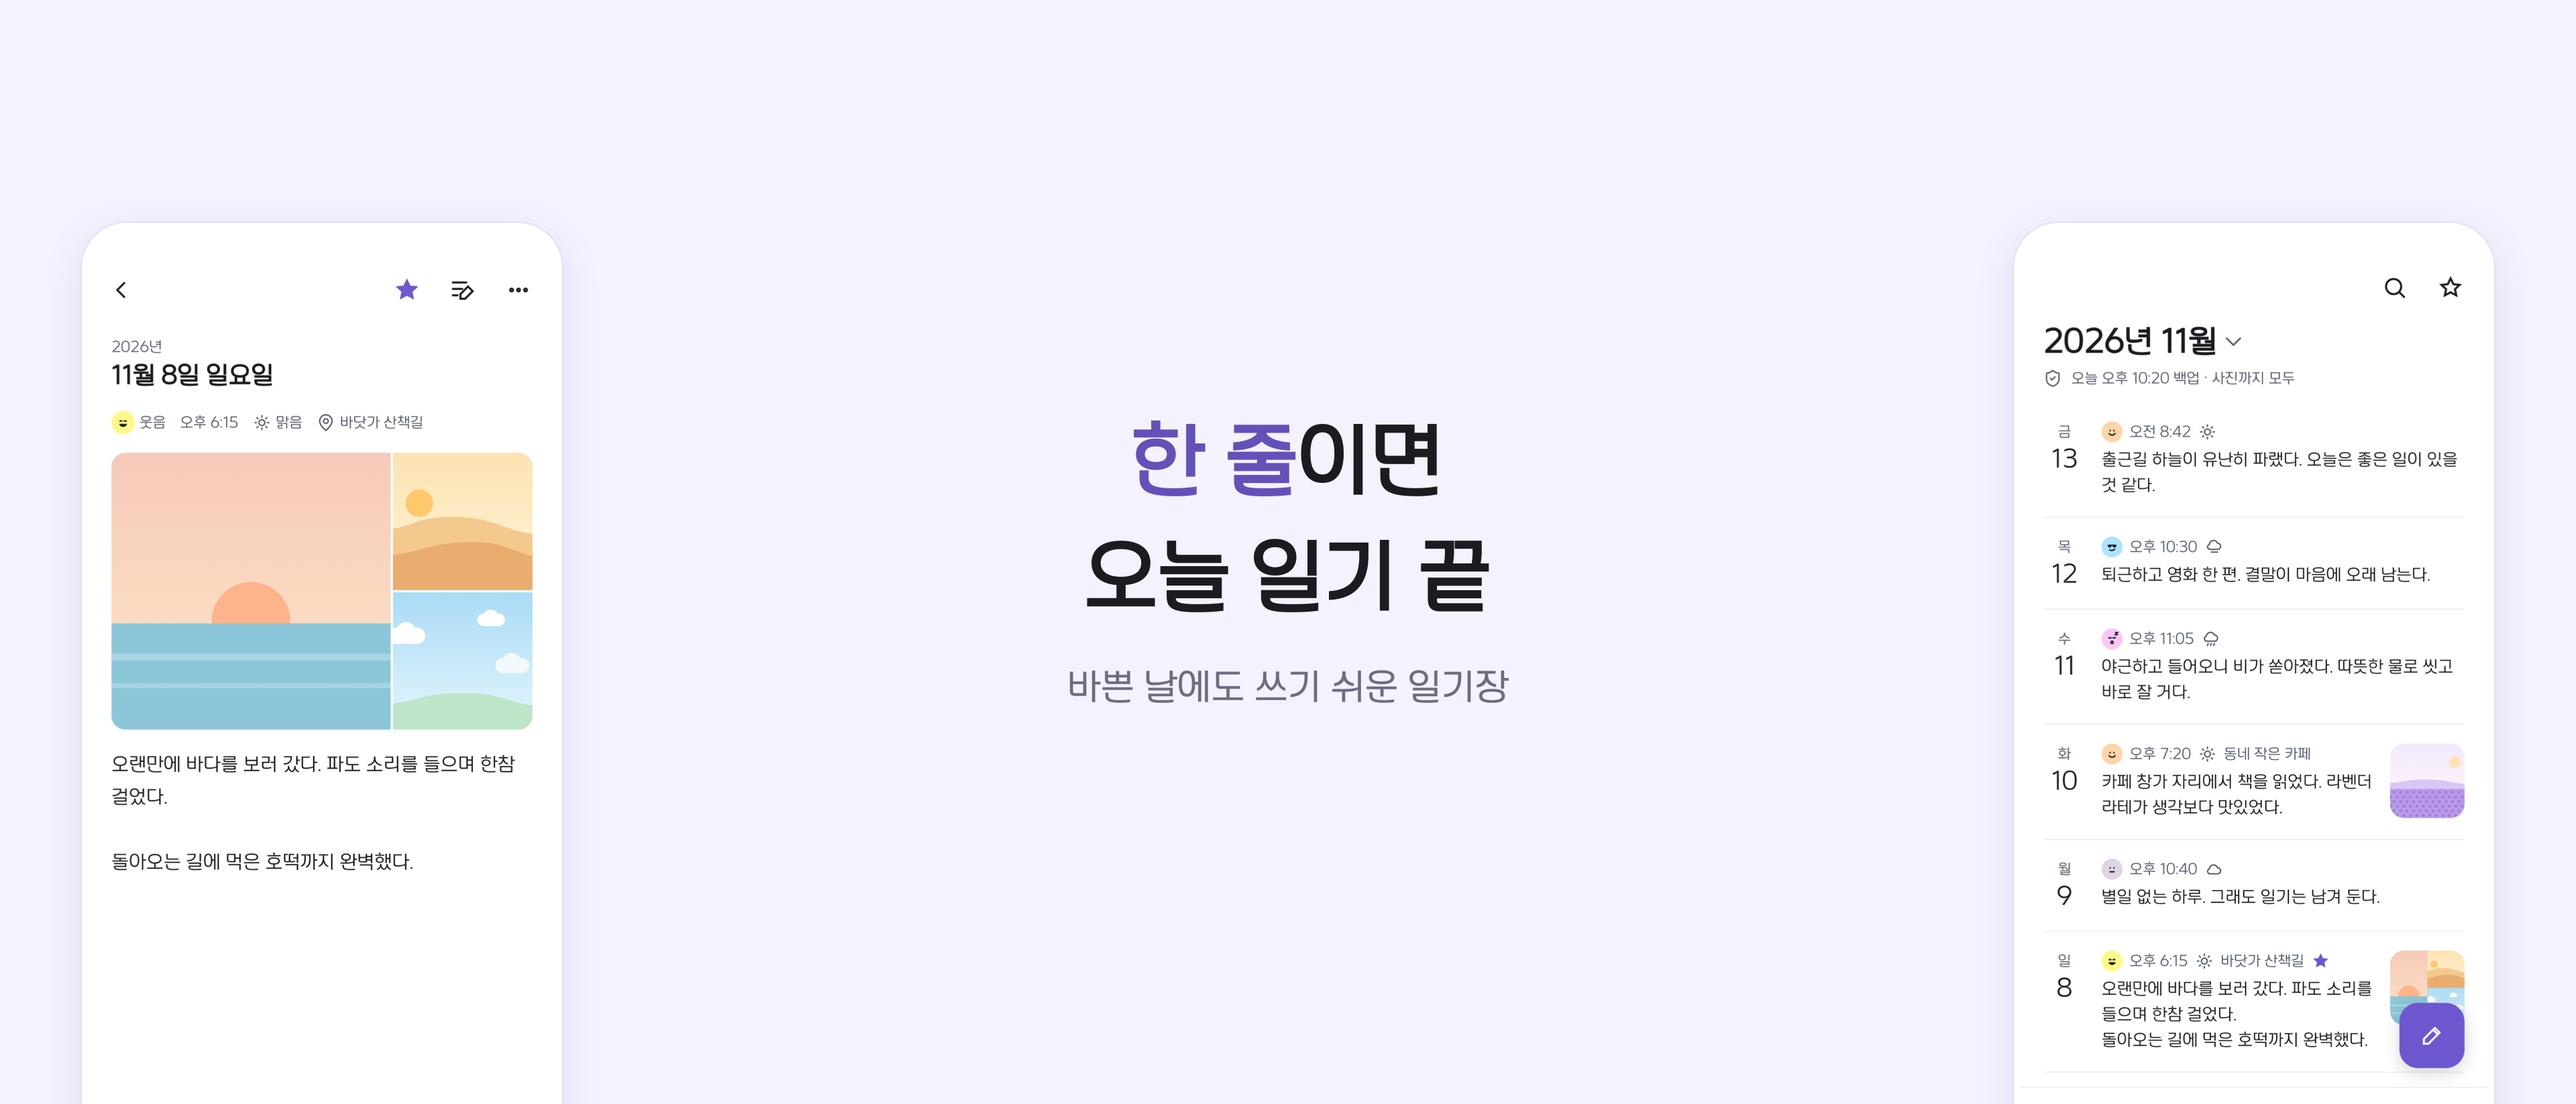
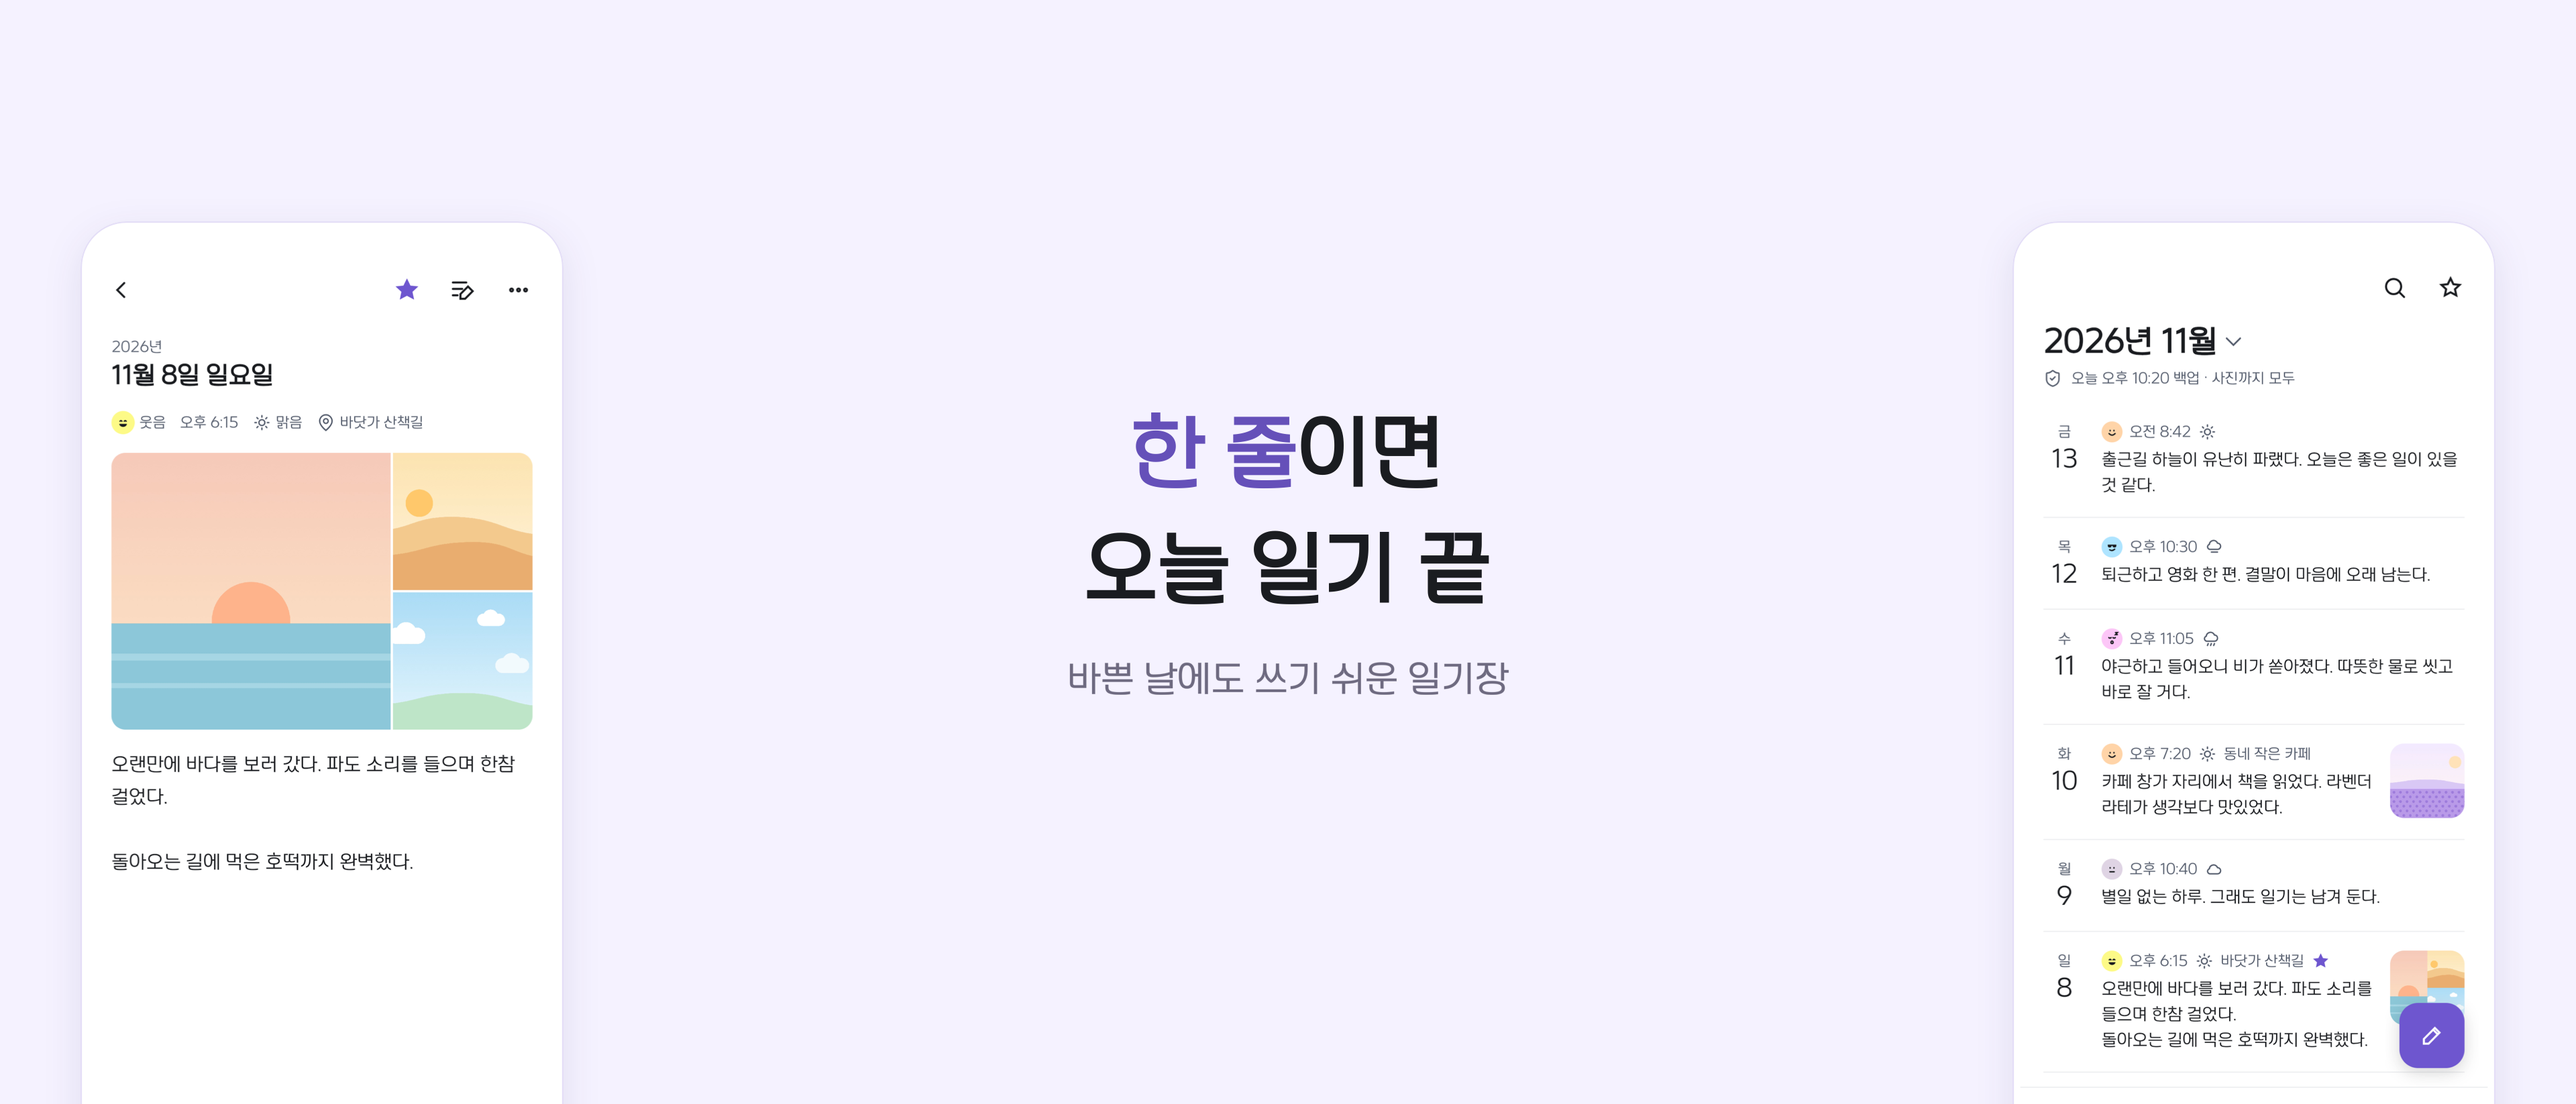
fix(design): 스토어 가로 그림의 글과 화면을 가운데에 맞추기
검색 결과 그림은 화면이 위로 50px 치우치고 좌우 여백이 904와 840으로
달랐다. 글과 화면 자리를 숫자로 박아 두어 언어마다 글 폭이 달라지면
어긋났다. 글 폭을 재서 한 묶음으로 가로 가운데에 두고, 화면과 글을
세로 가운데에 맞췄다. Play 그래픽 이미지와 App Store 헤더도 같은
방식으로 다시 만들었다.

Changed region(s): [[0.4062, 0.3718, 0.5938, 0.5577], [0.4062, 0.5887, 0.5938, 0.6507]]

diff --git a/scripts/store/make_banner.swift b/scripts/store/make_banner.swift
@@ -23,6 +23,7 @@ let bg = color(0xF5F2FF), ink = color(0x1A1C20), sub = color(0x6E6A80), line = c
 let accent = color(0x6550B9)
 let accentWord = ["ko": "한 줄", "en": "One line", "ja": "1行"]
 let statusCut: CGFloat = 162
+let lineHeightMultiple: CGFloat = 1.16
 
 let copy: [String: (String, String)] = [
     "ko": ("한 줄이면\n오늘 일기 끝", "바쁜 날에도 쓰기 쉬운 일기장"),
@@ -33,25 +34,40 @@ let copy: [String: (String, String)] = [
 func R(_ x: CGFloat, _ top: CGFloat, _ w: CGFloat, _ h: CGFloat) -> NSRect { NSRect(x: x, y: H - top - h, width: w, height: h) }
 
 func attributed(_ s: String, _ px: CGFloat, _ c: NSColor, bold: Bool, align: NSTextAlignment) -> NSAttributedString {
-    let style = NSMutableParagraphStyle(); style.alignment = align; style.lineHeightMultiple = 1.16
+    let style = NSMutableParagraphStyle(); style.alignment = align; style.lineHeightMultiple = lineHeightMultiple
     let japanese = lang == "ja"
     let f = japanese ? NSFont(name: bold ? "HiraginoSans-W6" : "HiraginoSans-W3", size: px * 0.92)! : NSFont(name: "ChangwonDangamRound-Regular", size: px)!
     let stroke: CGFloat = japanese ? 0 : (bold ? (lang == "en" ? -5.0 : -3.4) : -0.6)
     return NSAttributedString(string: s, attributes: [.font: f, .foregroundColor: c, .strokeColor: c, .strokeWidth: stroke, .paragraphStyle: style])
 }
 
-// 제목과 설명을 한 덩어리로 x, 가운데 y에 그림
-func block(x: CGFloat, centerY: CGFloat, width: CGFloat, title: CGFloat, align: NSTextAlignment) {
+func texts(_ title: CGFloat, _ align: NSTextAlignment) -> (NSAttributedString, NSAttributedString) {
     let t = NSMutableAttributedString(attributedString: attributed(copy[lang]!.0, title, ink, bold: true, align: align))
     if let r = copy[lang]!.0.range(of: accentWord[lang]!) {
         let range = NSRange(r, in: copy[lang]!.0)
         t.addAttributes([.foregroundColor: accent, .strokeColor: accent], range: range)
     }
-    let s = attributed(copy[lang]!.1, title * 0.46, sub, bold: false, align: align)
+    return (t, attributed(copy[lang]!.1, title * 0.46, sub, bold: false, align: align))
+}
+
+// 글 덩어리의 실제 폭. 언어마다 달라 글과 화면을 한 묶음으로 가운데 둘 때 씀
+func blockWidth(title: CGFloat) -> CGFloat {
+    let (t, s) = texts(title, .left)
+    let free = NSSize(width: 10000, height: 4000)
+    return ceil(max(t.boundingRect(with: free, options: [.usesLineFragmentOrigin]).width,
+                    s.boundingRect(with: free, options: [.usesLineFragmentOrigin]).width))
+}
+
+// 제목과 설명을 한 덩어리로 x, 가운데 y에 그림
+func block(x: CGFloat, centerY: CGFloat, width: CGFloat, title: CGFloat, align: NSTextAlignment) {
+    let (t, s) = texts(title, align)
     let th = t.boundingRect(with: NSSize(width: width, height: 4000), options: [.usesLineFragmentOrigin]).height
     let sh = s.boundingRect(with: NSSize(width: width, height: 4000), options: [.usesLineFragmentOrigin]).height
     let gap = title * 0.36
-    let top = centerY - (th + gap + sh) / 2
+    // 줄 높이 여유가 글자 위에 붙어 눈에 보이는 가운데가 내려감. 그 절반만큼 올림
+    let font = t.attribute(.font, at: 0, effectiveRange: nil) as! NSFont
+    let lift = (lineHeightMultiple - 1) * (font.ascender - font.descender + font.leading) / 2
+    let top = centerY - (th + gap + sh) / 2 - lift
     t.draw(with: R(x, top, width, th + 4), options: [.usesLineFragmentOrigin])
     s.draw(with: R(x, top + th + gap, width, sh + 4), options: [.usesLineFragmentOrigin])
 }
@@ -81,6 +97,23 @@ func phone(_ name: String, x: CGFloat, top: CGFloat, width: CGFloat) {
     NSGraphicsContext.restoreGraphicsState()
 }
 
+func phoneHeight(_ name: String, width: CGFloat) -> CGFloat {
+    let img = NSImage(contentsOfFile: "\(caps)/\(name).png")!
+    let k = width / 1010
+    let screenW = width - 32 * k
+    return (img.size.height - statusCut) * screenW / img.size.width + 32 * k + 40 * k
+}
+
+// 왼쪽 글, 오른쪽 화면을 한 묶음으로 가로 가운데. 사이는 maxGap, 넓은 언어는 room 안에 들도록 줄임
+// top이 없으면 화면도 세로 가운데. 글은 늘 세로 가운데
+func sideBySide(title: CGFloat, phoneWidth: CGFloat, maxGap: CGFloat, room: CGFloat, top: CGFloat? = nil) {
+    let tw = blockWidth(title: title)
+    let gap = min(maxGap, room - tw - phoneWidth)
+    let x = (W - (tw + gap + phoneWidth)) / 2
+    block(x: x, centerY: H / 2, width: tw + 4, title: title, align: .left)
+    phone("home", x: x + tw + gap, top: top ?? (H - phoneHeight("home", width: phoneWidth)) / 2, width: phoneWidth)
+}
+
 let ctx = CGContext(data: nil, width: Int(W), height: Int(H), bitsPerComponent: 8, bytesPerRow: 0,
                     space: CGColorSpace(name: CGColorSpace.sRGB)!, bitmapInfo: CGImageAlphaInfo.noneSkipLast.rawValue)!
 NSGraphicsContext.current = NSGraphicsContext(cgContext: ctx, flipped: false)
@@ -89,8 +122,7 @@ bg.setFill(); NSRect(x: 0, y: 0, width: W, height: H).fill()
 switch mode {
 case "feature":
     // 왼쪽 글, 오른쪽에 아래가 잘린 화면 한 장
-    block(x: 80, centerY: H / 2, width: 520, title: 50, align: .left)
-    phone("home", x: 640, top: 56, width: 320)
+    sideBySide(title: 50, phoneWidth: 320, maxGap: 260, room: W - 160, top: 56)
 case "header":
     // 안전 영역(1646×661, 가운데)에 글. 넓은 화면에서만 보이는 양옆에 화면
     block(x: 1097, centerY: 493 + 661 / 2, width: 1646, title: 124, align: .center)
@@ -99,8 +131,7 @@ case "header":
 case "search":
     // 왼쪽 글, 오른쪽 화면(안전 영역 836~3004 안)
     // 영어는 줄이 길어 두 줄에 들어가게 조금 줄임
-    block(x: 900, centerY: H / 2, width: 1160, title: lang == "en" ? 124 : 150, align: .left)
-    phone("home", x: 2170, top: 380, width: 830)
+    sideBySide(title: lang == "en" ? 124 : 150, phoneWidth: 830, maxGap: 420, room: 3004 - 836)
 default:
     fatalError(mode)
 }

diff --git a/docs/store/listing.md b/docs/store/listing.md
@@ -594,5 +594,5 @@ Plusが登場しました
 영어(원어민 검수 전): One line, and today is done / Keep your day with photos / Your moods on a calendar / Look back on your moods / Make it your color / Back up photos to your own Drive.
 일본어(원어민 검수 전): 1行で今日の日記は完了 / 写真と一緒に残せます / その日の気分がカレンダーに / どんな気分が多かったかふり返れます / 好きな色に変えられます / 写真まで自分のドライブに.
 
-그래픽 이미지·App Store 헤더·검색 결과 그림은 1번 제목과 설명에 목록 화면을 둔다. 가로 그림은 제목의 낱말 하나("한 줄", "One line", "1行")만 브랜드색 #6550B9로 강조하고, 글자는 화면보다 무겁지 않게 줄였다(사용자 요청 2026-11-24). 헤더는 Apple 안전 영역(가운데 1646×661)에 글만 두고, 넓은 화면에서만 보이는 양옆에 화면을 둔다.
+그래픽 이미지·App Store 헤더·검색 결과 그림은 1번 제목과 설명에 목록 화면을 둔다. 가로 그림은 제목의 낱말 하나("한 줄", "One line", "1行")만 브랜드색 #6550B9로 강조하고, 글자는 화면보다 무겁지 않게 줄였다(사용자 요청 2026-11-24). 헤더는 Apple 안전 영역(가운데 1646×661)에 글만 두고, 넓은 화면에서만 보이는 양옆에 화면을 둔다. 그래픽 이미지와 검색 결과 그림은 글과 화면을 한 묶음으로 가로 가운데에 두고, 글과 화면 모두 세로 가운데에 맞춘다. 글 폭은 언어마다 재서 사이 간격만 바꾼다(2026-11-25 사용자 지적: 글과 폰 대칭).
 만드는 법: 폰·태블릿 `swift scripts/store/make_store_screens.swift <캡처> <결과> <언어> <폭> <높이> <앞이름> [tablet]`, 가로 그림 `swift scripts/store/make_banner.swift <캡처> <결과> <언어> feature|header|search`. 캡처는 `docs/store/source/ios/<언어>/`(iPhone 17 Pro)와 `ipad/`(iPad Pro 13" 세로)다.
